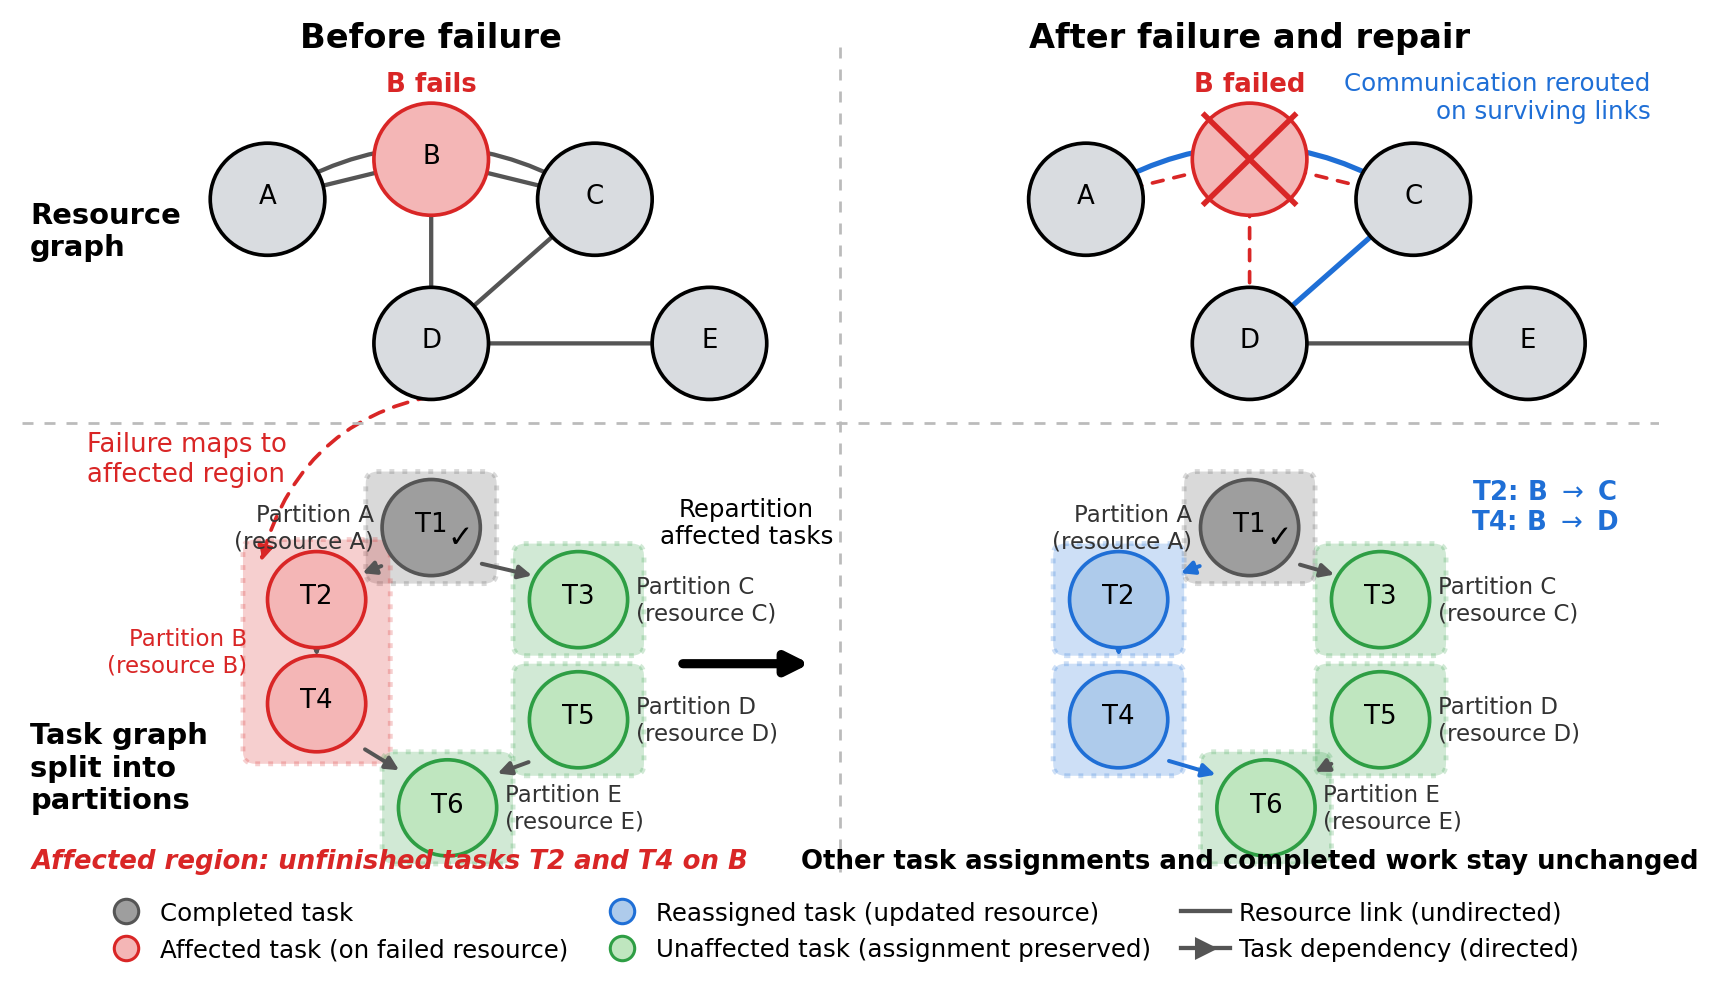
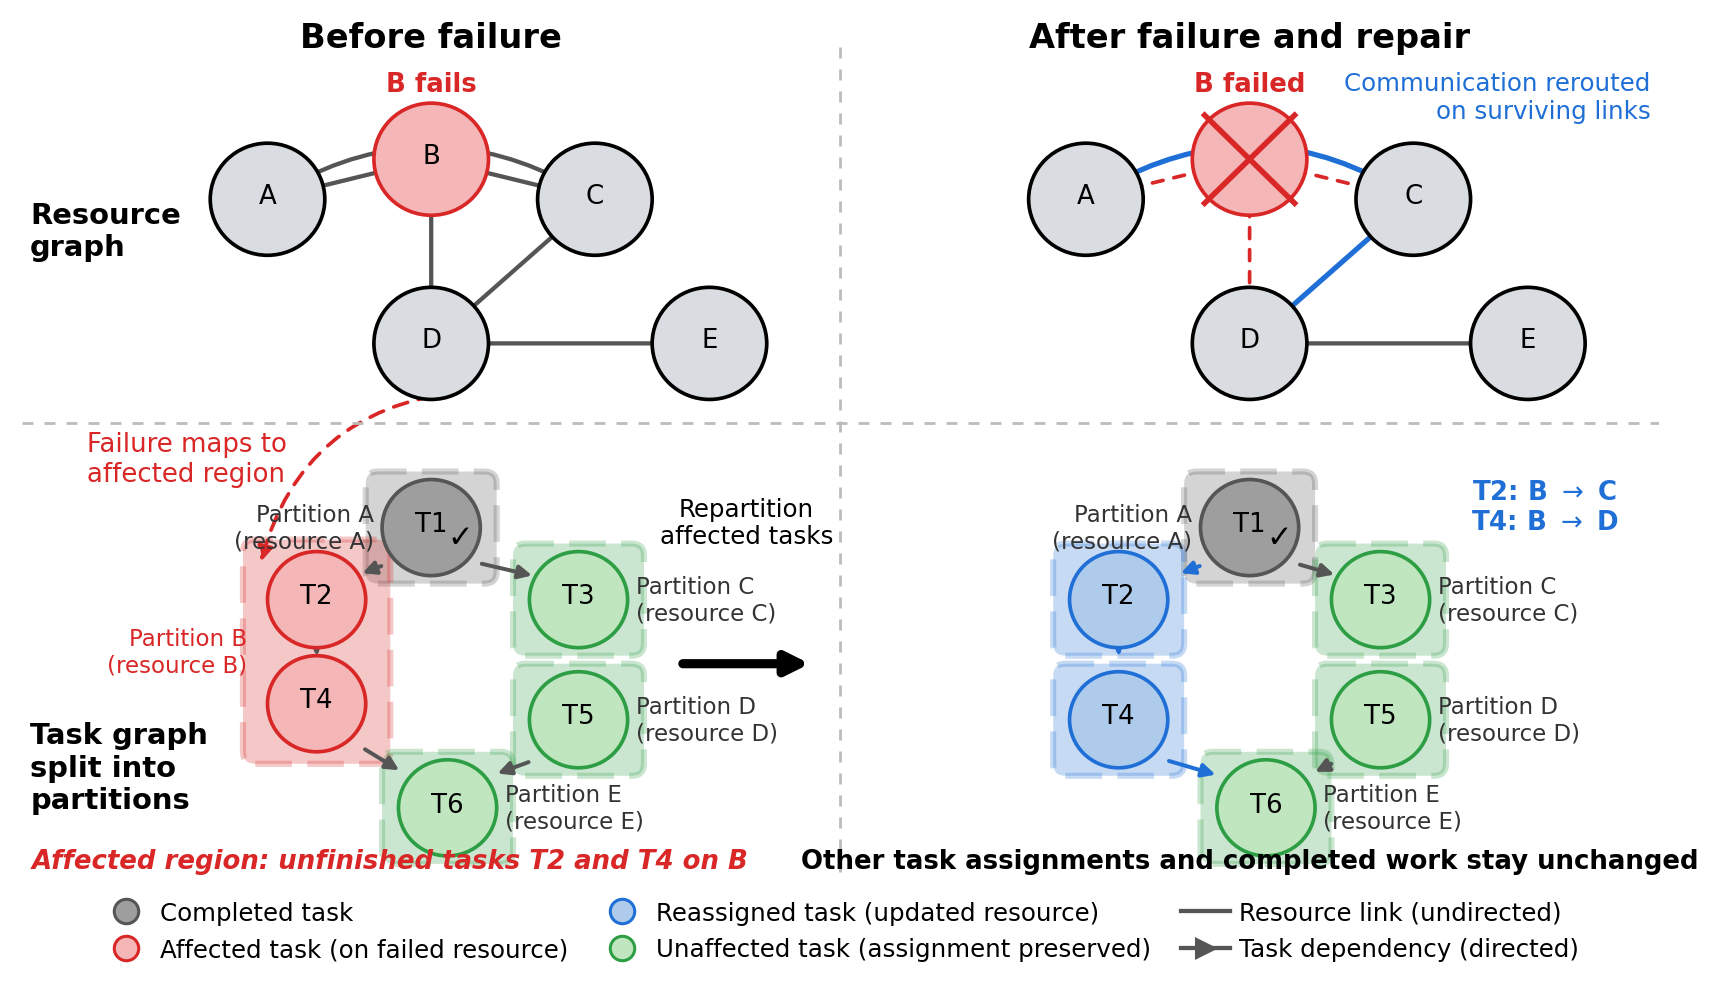
Make partition boundaries clearly visible dashed outlines

diff --git a/python/make_overview_fig.py b/python/make_overview_fig.py
@@ -40,9 +40,9 @@ def link(ax, p0, p1, color=GREY, lw=1.3, ls="-", rad=0.0, arrow=False,
 
 def part_box(ax, x, y, w, h, color):
     ax.add_patch(FancyBboxPatch((x - w / 2, y - h / 2), w, h,
-                 boxstyle="round,pad=1.5", facecolor=color, alpha=0.22,
-                 edgecolor=color, linewidth=1.6, linestyle=":",
-                 zorder=1))
+                 boxstyle="round,pad=1.5", facecolor=color, alpha=0.25,
+                 edgecolor=color, linewidth=2.0,
+                 linestyle=(0, (6, 2.5)), zorder=1))
 
 
 def plabel(ax, x_edge, y, text, side, color="#333333"):
